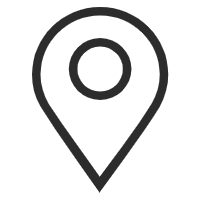
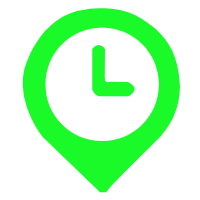
定时任务

diff --git a/util.py b/util.py
@@ -9,7 +9,7 @@ import random
 
 # 图片加水印
 def water_mark(day, ms, address, name, code):
-    ttf = 'DroidSansFallback-Regular.ttf'
+    ttf = "DroidSansFallback-Regular.ttf"
     # t = time.localtime()
     # print(time)
     # d = str('%02d' % t.tm_hour) + ':' + str('%02d' % t.tm_min) + ':' + str('%02d' % t.tm_sec)
@@ -22,7 +22,7 @@ def water_mark(day, ms, address, name, code):
     font = ImageFont.truetype(ttf, 14)
     shape = [(10, 10), (10, 80)]
     # 添加水印文字
-    draw.line(shape, fill='white', width=6)
+    draw.line(shape, fill="white", width=6)
     draw.text((18, 15), ms, font=ImageFont.truetype(ttf, 22))
     draw.text((122, 21), day, font=font)
     icon = Image.open("./img/new_icon.png")
@@ -33,25 +33,33 @@ def water_mark(day, ms, address, name, code):
     draw.text((icon.width + 20, 52), address, font=font)
     draw.text((1180, 20), code, font=font)
     # img.show()
-    img.save("./img/" + name + "/temp_watermark.jpg")
-    return imgToBase64()
+    temp_path = "./img/" + name + "/temp_watermark.jpg"
+    img.save(temp_path)
+    return imgToBase64(temp_path)
+
+# 修改图片大小
+# img = Image.open("./img/wpeng/wpeng1.jpg")
+# new_img = img.resize((810, 1080))
+# new_img.save("./img/wpeng/wpeng1.jpg")
+
+# 修改icon大小
+# icon = Image.open('./img/position.png')
+# new_icon = icon.resize((icon.width // 10, icon.height // 10))
+# new_icon = new_icon.save('./img/new_icon.png')
 
 
-def imgToBase64():
-    img = open("./img/temp_watermark.jpg", 'rb')
+def imgToBase64(temp_path):
+    img = open(temp_path, "rb")
     res = base64.b64encode(img.read())
     img.close()
-    return str(res, 'UTF-8')
+    return str(res, "UTF-8")
 
 
+# 测试图片添加水印
 # day = '2022-05-02'
 # ms = '14:25:00'
 # address = '浙江省杭州市西湖区蒋村街道文一西路757正绿城西溪国际'
-# water_mark(day, ms, address)
-#
-# icon = Image.open('./img/icon.png')
-# new_icon = icon.resize((icon.width // 10, icon.height // 10))
-# new_icon = new_icon.save('./img/new_icon.png')
+# water_mark(day, ms, address, 'wpeng', '1151610')
 
 
 def holiday(date):
@@ -73,26 +81,26 @@ def holiday(date):
 def send_email(msg, email_addr):
     mail_host = 'smtp.qq.com'
     mail_user = '314093315@qq.com'
-    mail_pass = 'vwwccxebrlqrbgeb'
+    mail_pass = 'qvvjgqsmkxyubgcd'
 
     sender = '314093315@qq.com'
-    receivers = {email_addr}
+    receivers = [email_addr]
 
     message = MIMEText(msg, 'plain', 'utf-8')
-    # message['From'] = Header("314093315")
-    # message['To'] = Header("wpeng")
+    message['From'] = sender
+    message['To'] = receivers[0]
 
     subject = "自动打卡"
     message['Subject'] = Header(subject, 'utf-8')
     try:
         smtpObj = smtplib.SMTP()
-        # 25 为 SMTP 端口号
         smtpObj.connect(mail_host, 25)
         smtpObj.login(mail_user, mail_pass)
         smtpObj.sendmail(sender, receivers, message.as_string())
+        smtpObj.quit()
         print("邮件发送成功")
     except smtplib.SMTPException:
         print("发送邮件异常")
 
 
-# send_email("测试")
+# send_email("测试", '1732218052@qq.com')

diff --git a/main.py b/main.py
@@ -1,9 +1,11 @@
+import schedule
 import request
 import util
 import time
 import json
 
-if __name__ == '__main__':
+
+def punch_job():
     address = '浙江省杭州市西湖区蒋村街道文一西路757正绿城西溪国际'
     t = time.localtime()
     # print(time)
@@ -12,11 +14,13 @@ if __name__ == '__main__':
     ddd = str(t.tm_year) + str('%02d' % t.tm_mon) + str('%02d' % t.tm_mday)
     # print(ddd)
     dayType = util.holiday(str(t.tm_year) + str('%02d' % t.tm_mon) + str('%02d' % t.tm_mday))
-    json_path = './config.json'
+    # dayType = "工作日"
+    json_path = "config.json"
     with open(json_path, 'r') as f:
         data = json.load(f)
     for i in data:
         personId = i['personId']
+        print(personId)
         email_addr = i['email']
         name = i['name']
         code = i['code']
@@ -25,9 +29,25 @@ if __name__ == '__main__':
         else:
             imgBase64 = util.water_mark(day, ms, address, name, code)
             # print(res)
-            imageKey = request.submit(personId, day+' '+ms, address)
+            imageKey = request.submit(personId, day + ' ' + ms, address)
+            print("imageKey:", imageKey)
             update_status = request.upload_img(imgBase64, imageKey, personId)
             if json.loads(update_status)['data'].__eq__("success"):
                 util.send_email(name + "打卡成功，开启打工人新的一天", email_addr)
             else:
                 util.send_email(name + "自动打卡失败", email_addr)
+
+
+# dispatch = BlockingScheduler(timezone='Asia/Shanghai')
+# # dispatch.add_job(punch_job, "cron", hour=20, minute=13, second=2)
+# dispatch.add_job(punch_job, "interval ", second=2)
+# # dispatch.add_job(punch_job, "cron", hour=18, minute=random.randint(10, 59), second=2)
+# print("开始定时任务")
+# dispatch.start()
+
+if __name__ == '__main__':
+    schedule.every().day.at("08:15").do(punch_job)
+    schedule.every().day.at("19:45").do(punch_job)
+    while True:
+        schedule.run_pending()   # 运行所有可以运行的任务
+        time.sleep(1)

diff --git a/test.py b/test.py
@@ -1,10 +1,13 @@
 import json
 import random
+import sched
+
 from PIL import Image
 import base64
 import smtplib
 from email.mime.text import MIMEText
 from email.header import Header
+from apscheduler.schedulers.blocking import BlockingScheduler
 
 
 # img = open("temp_watermark.jpg", 'rb')
@@ -18,13 +21,13 @@ from email.header import Header
 # mail_pass = 'vwwccxebrlqrbgeb'
 #
 # sender = '314093315@qq.com'
-# receivers = ['wp_hyll@163.com']
+# receivers = ['1732218052@qq.com']
 #
-# message = MIMEText('Python 邮件发送测试...', 'plain', 'utf-8')
-# message['From'] = Header("314093315@qq.com", 'utf-8')
-# message['To'] = Header("wp_hyll@163.com", 'utf-8')
+# message = MIMEText('测试发送', 'plain', 'utf-8')
+# # message['From'] = Header("314093315@qq.com", 'utf-8')
+# # message['To'] = Header("wp_hyll@163.com", 'utf-8')
 #
-# subject = 'Python SMTP 邮件测试'
+# subject = '邮件测试'
 # message['Subject'] = Header(subject, 'utf-8')
 #
 # smtpObj = smtplib.SMTP()
@@ -38,5 +41,13 @@ from email.header import Header
 #     data = json.load(f)
 # for i in data:
 #     print(i['personId'])
-var = random.randint(0, 10)
-print(var)
+# var = random.randint(0, 2)
+# print(var)
+# path = os.path.abspath(".")
+def my_job():
+    print("测试")
+
+
+# sched = BlockingScheduler(timezone='Asia/Shanghai')
+# sched.add_job(my_job, "cron", hour=11, minute=53, second=2)
+# sched.start()
